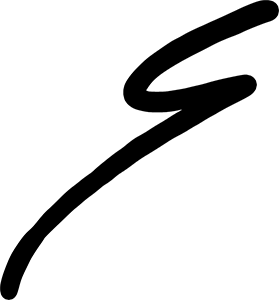
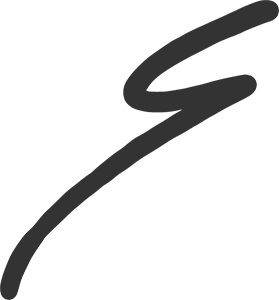
fix name color to faded black

Changed region(s): [[0.0, 0.0, 1.0, 1.0]]

diff --git a/assets/css/custom.css b/assets/css/custom.css
@@ -60,6 +60,10 @@
   justify-content:center;
 }
 
+#header-intro p {
+  color: #333;
+}
+
 #header-intro h1 {
 margin: 0;
 padding: 0;
